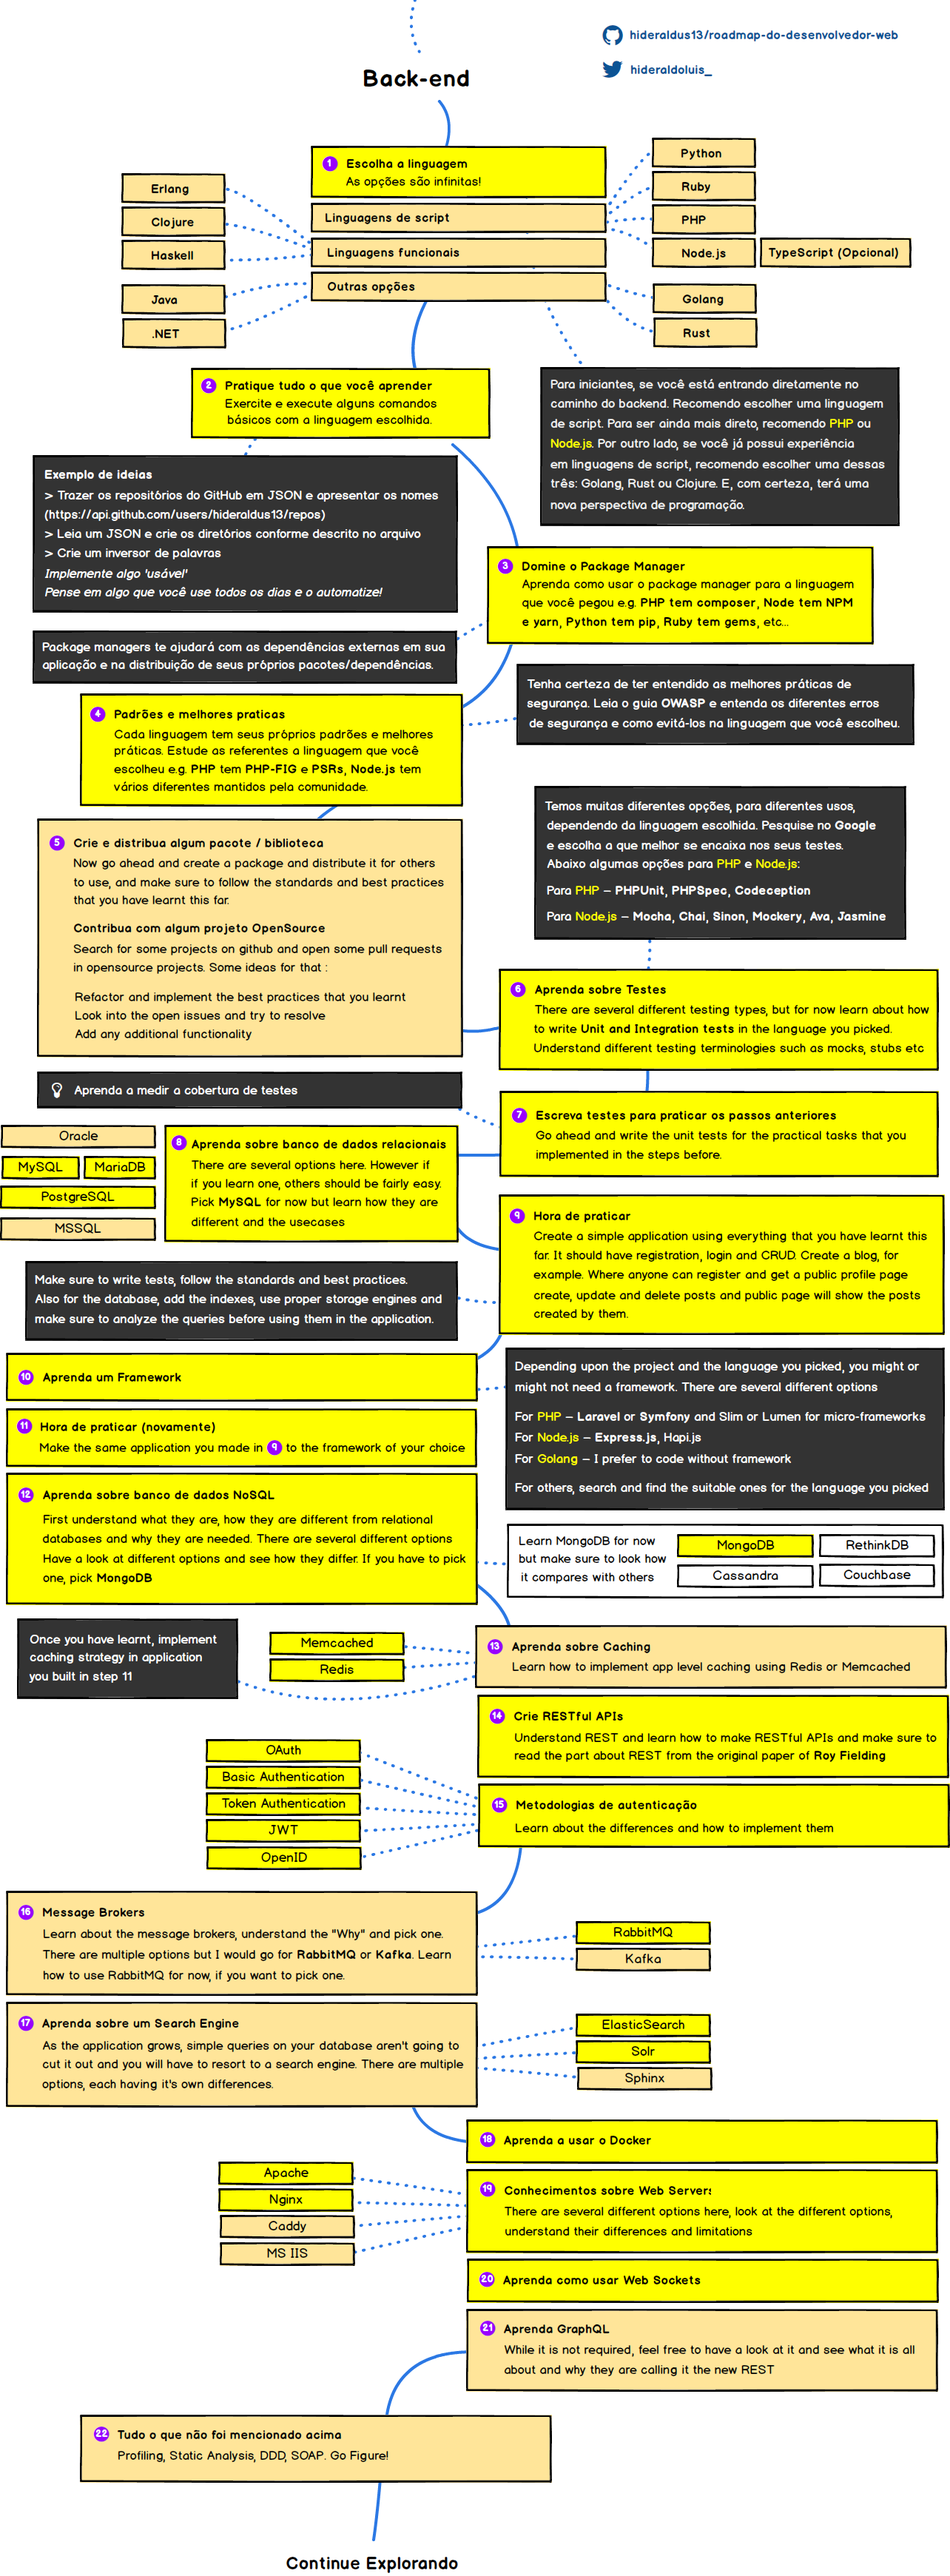
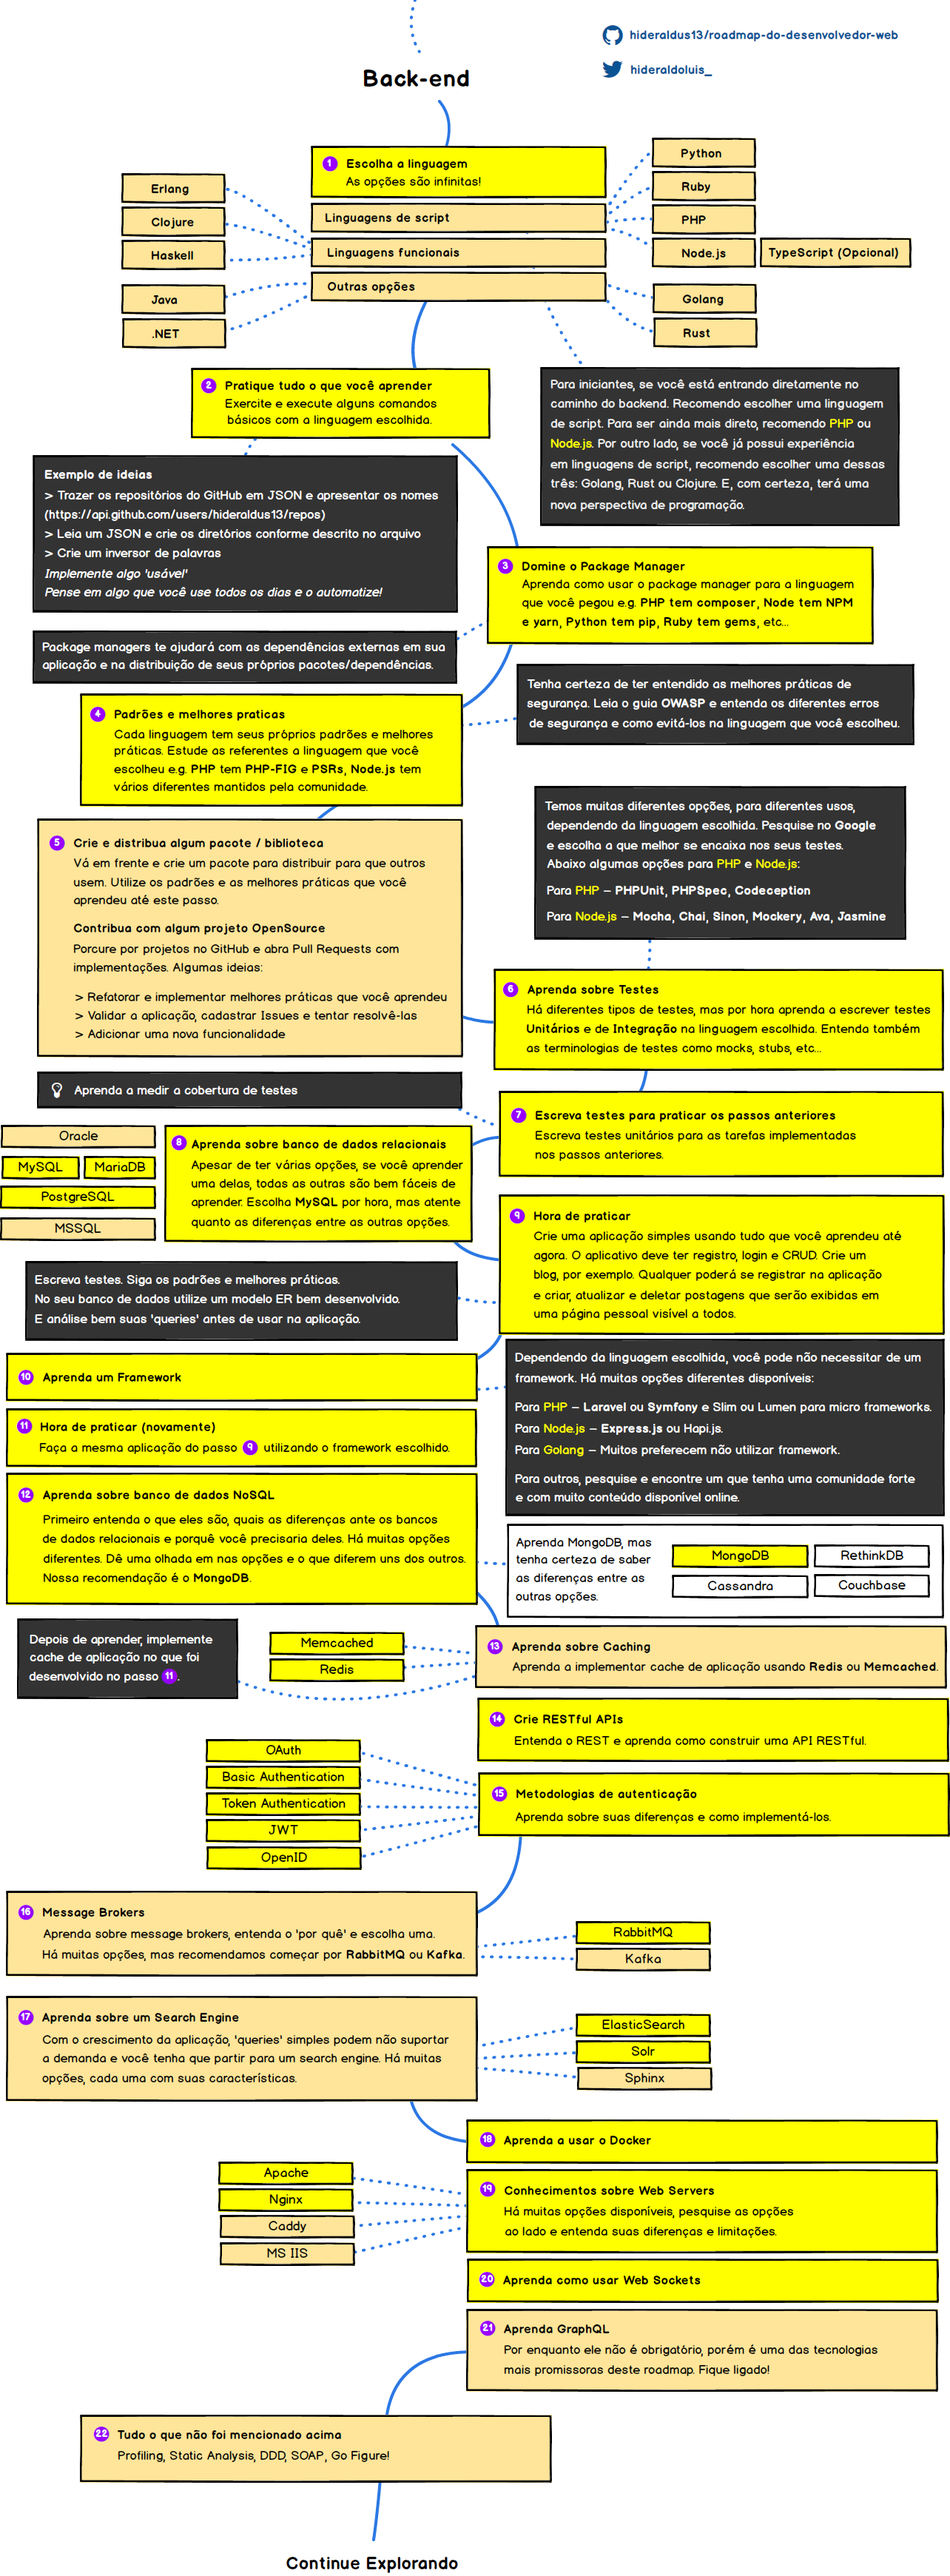
Finalizado backend

diff --git a/README.md b/README.md
@@ -1,4 +1,4 @@
-<img src="https://img.shields.io/badge/Traduzido-50%25-yellow.svg"> </b>
+<img src="https://img.shields.io/badge/Traduzido-75%25-green.svg"> </b>
 
 <p align="center">
   <a href="https://github.com/hideraldus13/roadmap-do-desenvolvedor-web">
